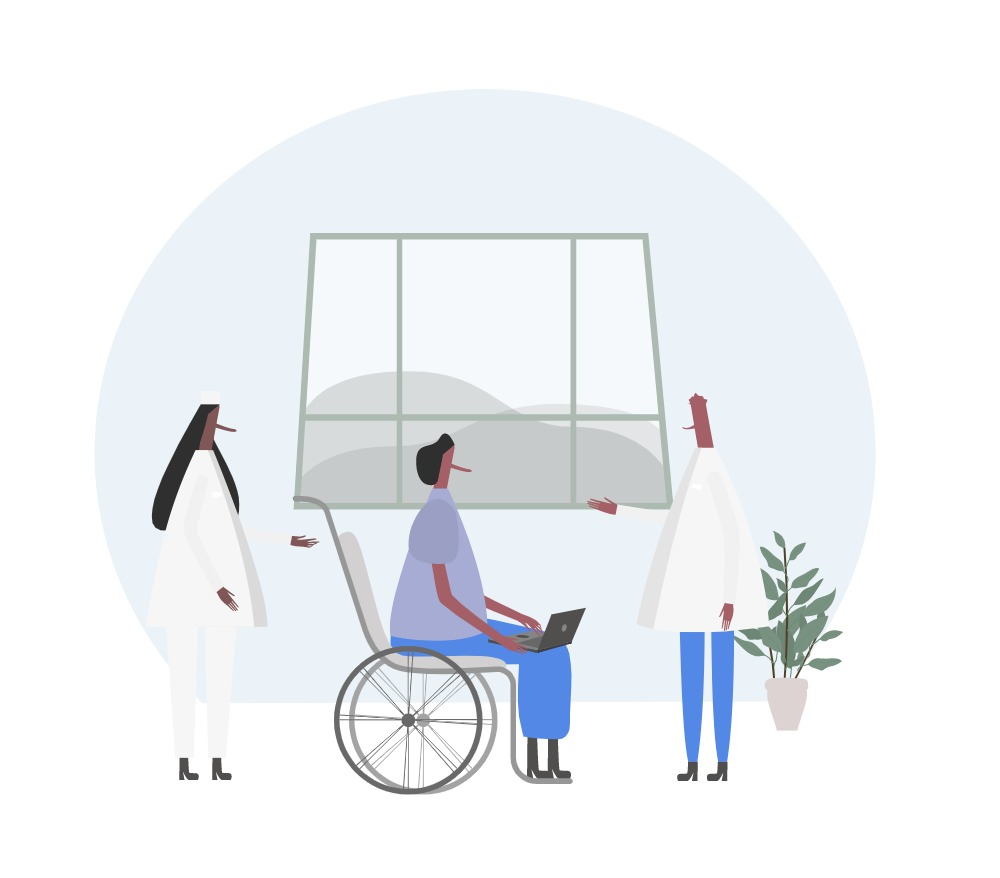
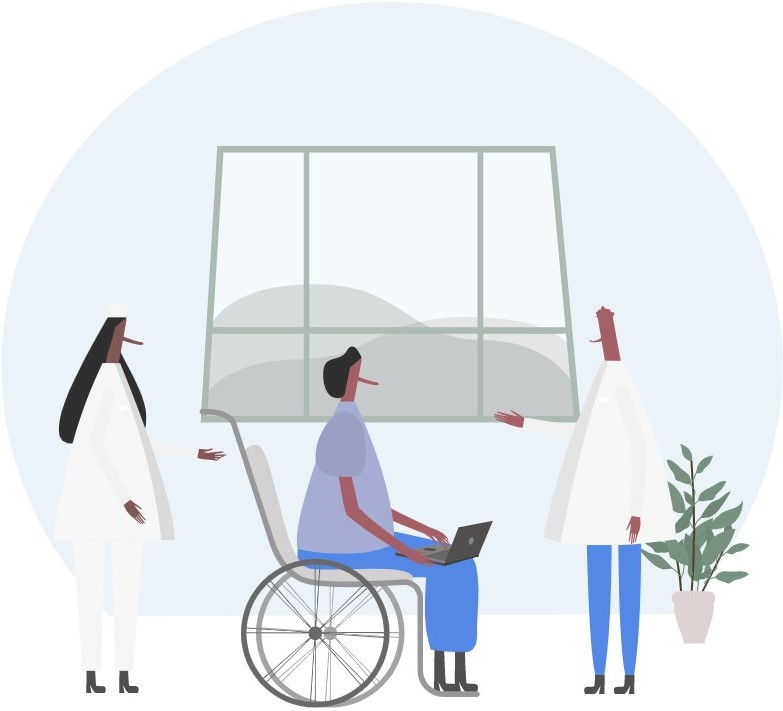
assets

diff --git a/src/app/app.component.html b/src/app/app.component.html
@@ -3,7 +3,7 @@
     <div class="container-fluid nav-wrapper">
       <div class="nav-bar">
         <a class="nav-title" href="#">
-          <img class="nav-image" src="../assets/images/doctor-cropped.jpeg" alt="Profile">
+          <img class="nav-image" src="../assets/images/doctor.jpeg" alt="Profile">
           <span>Dr. Sindhu Madhavaneni</span>
         </a>
         <div class="nav-items">
@@ -53,6 +53,6 @@
       <app-promo-banner></app-promo-banner>
     </section>
   </main>
-  <footer class="app-footer">This is footer</footer>
-  <router-outlet></router-outlet>
+  <footer class="app-footer"></footer>
+  <!-- <router-outlet></router-outlet> -->
 </div>

diff --git a/src/app/components/promo-banner/promo-banner.component.html b/src/app/components/promo-banner/promo-banner.component.html
@@ -1,7 +1,7 @@
 <section class="promo-banner">
   <div class="row">
     <div class="col-12 col-sm-6">
-      <img class="promo-image" src="../assets/images/medical-illustration-cropped.jpg" alt="promo-img">
+      <img class="promo-image" src="../assets/images/medical-illustration.jpg" alt="promo-img">
     </div>
     <div class="col-12 col-sm-6 promo-banner-message">
       <div class="py-5 ps-sm-5">
